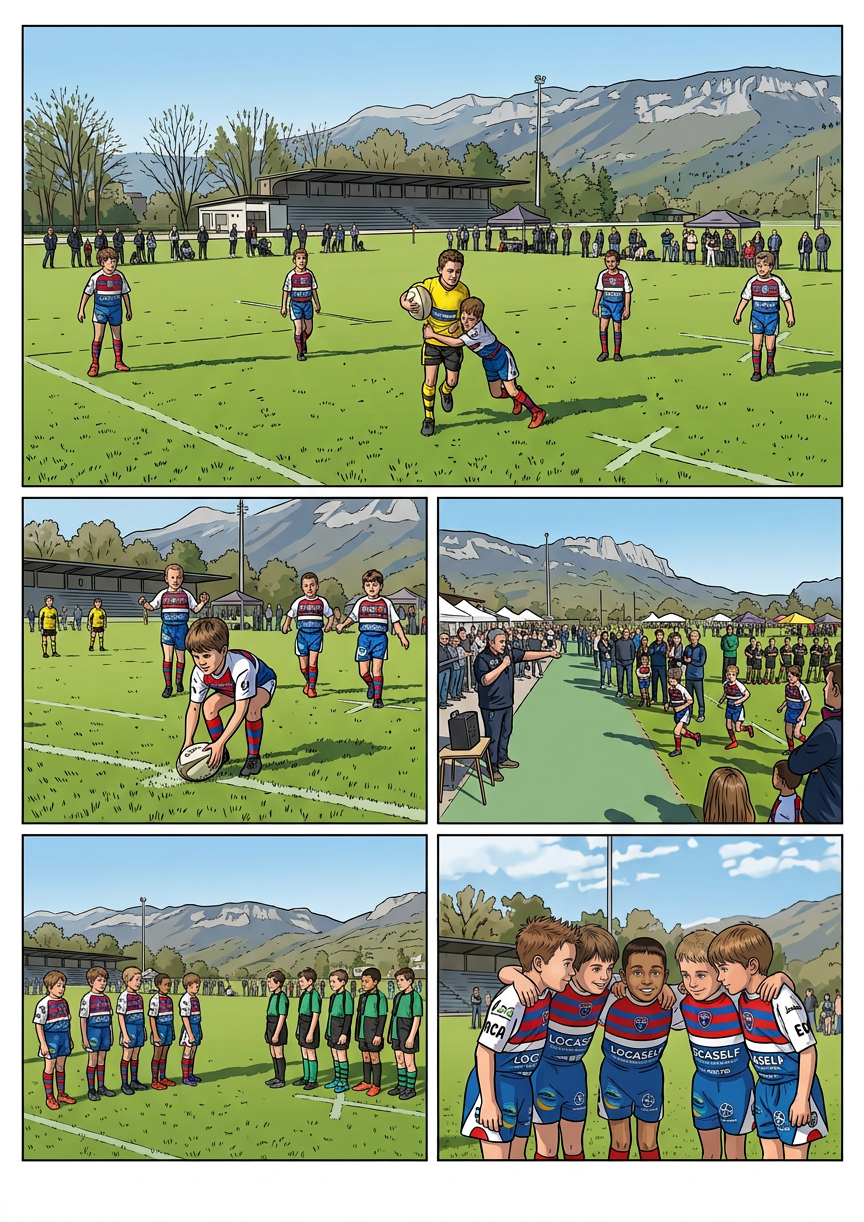
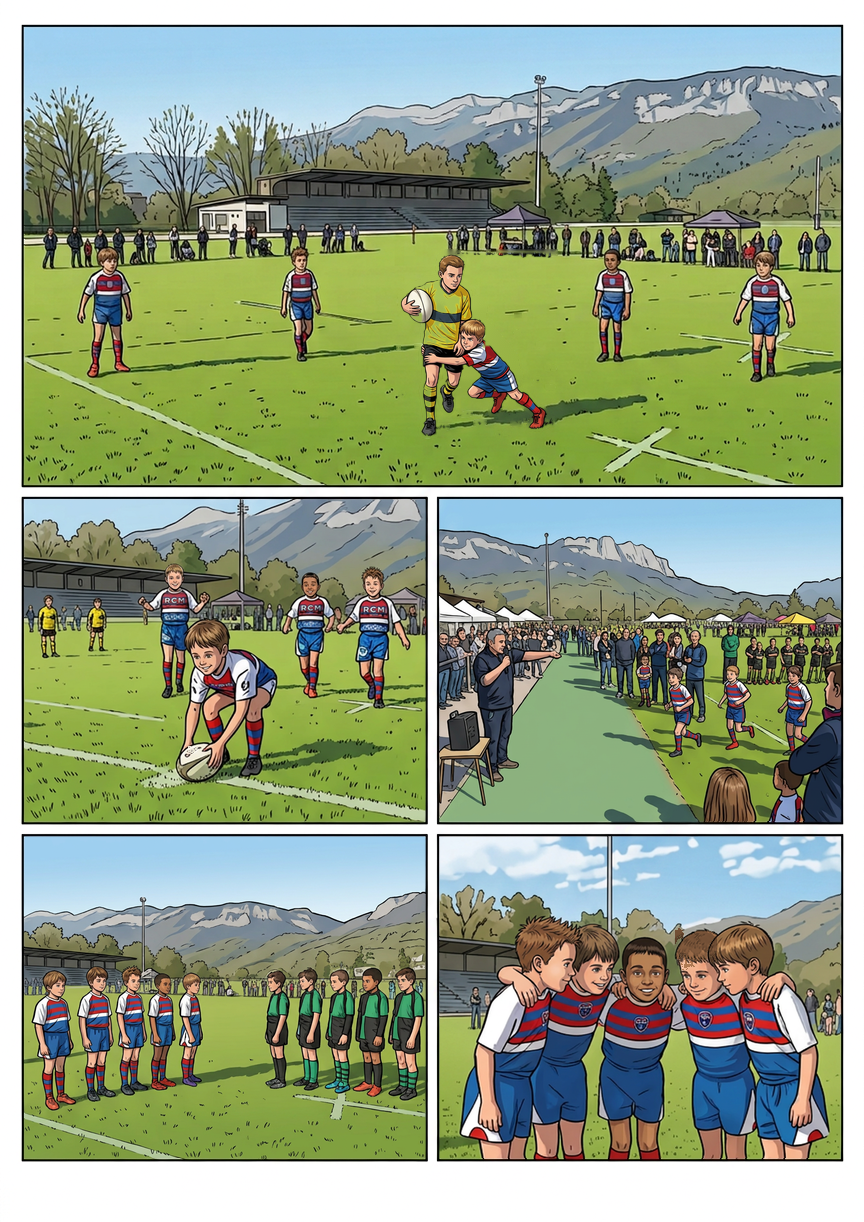
Revue couverture : reprises de premiere passe de la planche 27 (lot AE)

diff --git a/Planches-dessin/SUIVI-STYLE.md b/Planches-dessin/SUIVI-STYLE.md
@@ -2,7 +2,7 @@
 
 **La couverture `00-couverture-marvel.png` est désormais la seule référence de style et d’identité.** La décision utilisateur remplace la priorité V2 décrite dans l’historique ci-dessous. La couverture reste inchangée.
 
-Suivi actuel : [`validation/REVUE-COUVERTURE.md`](validation/REVUE-COUVERTURE.md) et son manifeste JSON : 153 vignettes inventoriées, 133 premières reprises, 1 contrôle sans retouche, 0 correction partielle, 19 autres contrôles individuels à faire, aucune validation définitive. Les anciennes approbations ne valent pas conformité au nouveau référentiel. La prise de 18/4 est reprise au lot U ; les raccords de 19/1 sont nettoyés au lot W, puis les cinq cases de 20 reprises au lot X. Planche 21 reprise au lot Y : souvenir mental de Flavien, gestes de réconciliation, visage clair d’Ayden isolé pour éviter sa confusion avec Nolann mat, et geste de Julien sur l’épaule de Flavien. Planche 22 reprise au lot Z : retour du printemps en manches courtes (suppression des sous-pulls d’hiver de 22-1), vestes marine des coachs (22-2 et 22-4), prise de parole de Léon/Lyssandro/Nolann (22-3) et clin d’œil complice de Milo (22-5). Planche 23 reprise au lot AA : quatre bandes horizontales (passe en ligne, défense alignée autour d’Ayden, plaquage bas et soutien autour de Lyssandro, regard de Flavien/Julien/Kilian en tenues marine). Planche 24 reprise au lot AB : cheveux châtain clair d’Ayden au portail de l’école (24-1), visage enfantin serein de Léon (24-2), et échanges père-fils entre Flavien et Léon à Saint-Sulpice (24-3 à 24-5). Planche 25 reprise au lot AC : panorama des équipes du tournoi final avec Flavien/Julien/Kilian en bleu marine (25-1), victoires contre Chambéry jaune/noir (25-2) et Albertville rouge/blanc avec plaquage bas de Nolann (25-3), pause eau des cinq copains avec les trois coachs (25-4) et entrée de Rumilly rouge/noir en manches courtes (25-5). Planche 26 reprise au lot AD : regroupement des cinq défenseurs du RCM et ailier de Rumilly démarqué debout en coin (26-1), essai en coin de Rumilly avec ballon unique (26-2), sortie tête basse de Nolann/Milo/Ayden sans halos aux oreilles ni textes parasites (26-3), et débrief avec Flavien/Julien/Kilian en bleu marine et prise de parole de Léon (26-4 à 26-6). Prochaine planche : 27. Réserves transversales sur contacts de plaquage, âge/traits sous bonnets et conformité des motifs/écussons/sponsors des tenues. Aucune bulle ni texte de dialogue ajouté.
+Suivi actuel : [`validation/REVUE-COUVERTURE.md`](validation/REVUE-COUVERTURE.md) et son manifeste JSON : 153 vignettes inventoriées, 137 premières reprises, 1 contrôle sans retouche, 0 correction partielle, 15 autres contrôles individuels à faire, aucune validation définitive. Les anciennes approbations ne valent pas conformité au nouveau référentiel. La prise de 18/4 est reprise au lot U ; les raccords de 19/1 sont nettoyés au lot W, puis les cinq cases de 20 reprises au lot X. Planche 21 reprise au lot Y : souvenir mental de Flavien, gestes de réconciliation, visage clair d’Ayden isolé pour éviter sa confusion avec Nolann mat, et geste de Julien sur l’épaule de Flavien. Planche 22 reprise au lot Z : retour du printemps en manches courtes (suppression des sous-pulls d’hiver de 22-1), vestes marine des coachs (22-2 et 22-4), prise de parole de Léon/Lyssandro/Nolann (22-3) et clin d’œil complice de Milo (22-5). Planche 23 reprise au lot AA : quatre bandes horizontales (passe en ligne, défense alignée autour d’Ayden, plaquage bas et soutien autour de Lyssandro, regard de Flavien/Julien/Kilian en tenues marine). Planche 24 reprise au lot AB : cheveux châtain clair d’Ayden au portail de l’école (24-1), visage enfantin serein de Léon (24-2), et échanges père-fils entre Flavien et Léon à Saint-Sulpice (24-3 à 24-5). Planche 25 reprise au lot AC : panorama des équipes du tournoi final avec Flavien/Julien/Kilian en bleu marine (25-1), victoires contre Chambéry jaune/noir (25-2) et Albertville rouge/blanc avec plaquage bas de Nolann (25-3), pause eau des cinq copains avec les trois coachs (25-4) et entrée de Rumilly rouge/noir en manches courtes (25-5). Planche 26 reprise au lot AD : regroupement des cinq défenseurs du RCM et ailier de Rumilly démarqué debout en coin (26-1), essai en coin de Rumilly avec ballon unique (26-2), sortie tête basse de Nolann/Milo/Ayden sans halos aux oreilles ni textes parasites (26-3), et débrief avec Flavien/Julien/Kilian en bleu marine et prise de parole de Léon (26-4 à 26-6). Planche 27 reprise au lot AE : plaquage bas aux cuisses d’Ayden et défense en ligne (27-1), essai de Lyssandro soutenu par Ayden/Nolann/Léon (27-2), annonce au micro (27-3), face-à-face contre Montmélian (27-4) et cercle des cinq copains en tenues nettoyées (27-5). Prochaine planche : 28. Réserves transversales sur contacts de plaquage, âge/traits sous bonnets et conformité des motifs/écussons/sponsors des tenues. Aucune bulle ni texte de dialogue ajouté.
 
 ---
 

diff --git a/Planches-dessin/validation/REVUE-COUVERTURE.md b/Planches-dessin/validation/REVUE-COUVERTURE.md
@@ -526,3 +526,8 @@ Procédure : identification au scénario → comparaison aux personnages de couv
 | `26-4` | 26 | `[440, 676, 840, 917]` | Corrigée 1re passe (relecture globale à faire) | Consultation du tableau du tournoi : reprise de Julien (veste ramenée du bleu roi au bleu marine canonique avec sifflet jaune) montrant le tableau et de Kilian (survêtement bleu marine) rassurant les trois joueurs du RCM à droite. |
 | `26-5` | 26 | `[25, 932, 425, 1172]` | Corrigée 1re passe (relecture globale à faire) | Prise de parole de Léon : reprise de Flavien, Julien (veste ramenée au bleu marine canonique avec sifflet jaune) et Kilian (survêtement bleu marine), entourant Léon (cheveux châtains en épis rétablis sur l'enfant levant la main avec un regard vif) et ses quatre coéquipiers (dont Nolann au teint mat à droite). |
 | `26-6` | 26 | `[439, 931, 837, 1174]` | Corrigée 1re passe (relecture globale à faire) | Explication tactique au sol : reprise de la vignette avec veste de Julien ramenée du bleu roi au bleu marine canonique bras écartés, Flavien accroupi montrant les trois brins d'herbe au sol, et les cinq garçons attentifs à gauche (Léon tapant dans ses mains, Lyssandro, Ayden aux cheveux ramenés du blond au châtain clair, Nolann au teint mat, Milo). |
+| `27-1` | 27 | `[25, 28, 840, 484]` | Corrigée 1re passe (relecture globale à faire) | Match 4 contre Aix-les-Bains (défense en ligne et plaquage bas) : reprise complète de la vignette avec Ayden (cheveux châtain clair) plaquant bas aux cuisses le porteur d'Aix-les-Bains en jaune et noir au centre, tandis que Milo, Léon, Nolann (teint mat, cheveux courts foncés) et Lyssandro restent parfaitement écartés sur la ligne défensive. |
+| `27-2` | 27 | `[25, 500, 425, 821]` | Corrigée 1re passe (relecture globale à faire) | Essai de Lyssandro en soutien offensif : reprise de Lyssandro aplatissant le ballon à deux mains sur la ligne d'en-but, soutenu au second plan par Ayden (cheveux châtain clair), Nolann (teint mat) et Léon (cheveux châtains en épis). |
+| `27-3` | 27 | `[440, 500, 840, 821]` | Corrigée 1re passe (relecture globale à faire) | Annonce du dernier match décisif : reprise en style couverture du speaker au micro à gauche, du public et des jeunes joueurs du RCM courant vers le terrain n°1 face à Montmélian en vert et noir. |
+| `27-4` | 27 | `[25, 837, 425, 1158]` | Corrigée 1re passe (relecture globale à faire) | Face-à-face RCM contre Montmélian : reprise à gauche des cinq joueurs du RCM alignés (Milo, Lyssandro, Léon, Nolann au teint mat, Ayden aux cheveux châtain clair) et à droite des cinq joueurs de Montmélian en vert et noir. |
+| `27-5` | 27 | `[440, 837, 840, 1158]` | Corrigée 1re passe (relecture globale à faire) | Cercle de motivation des cinq copains : reprise complète de Léon, Lyssandro, Nolann (teint mat), Ayden (cheveux châtain clair) et Milo bras dessus bras dessous en maillots et shorts du RCM nettoyés des inscriptions parasites (LOCASELF, SCASELF, RCR, NOLANN). |
